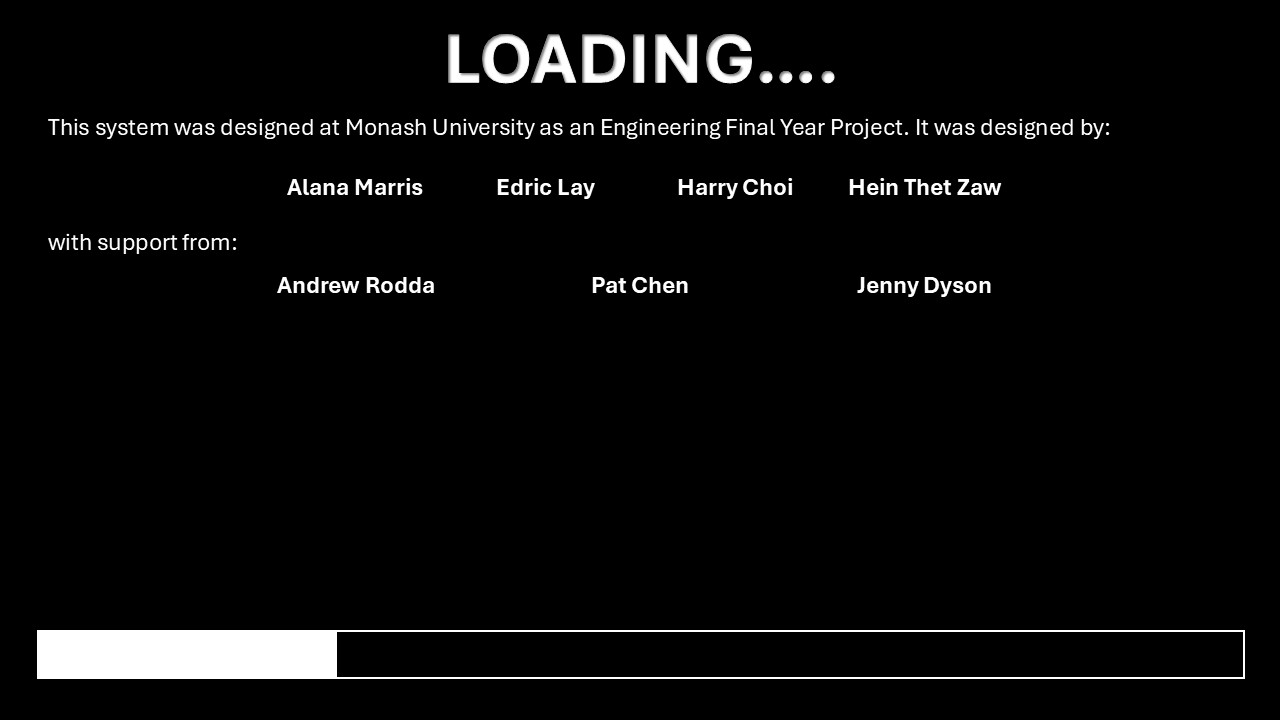
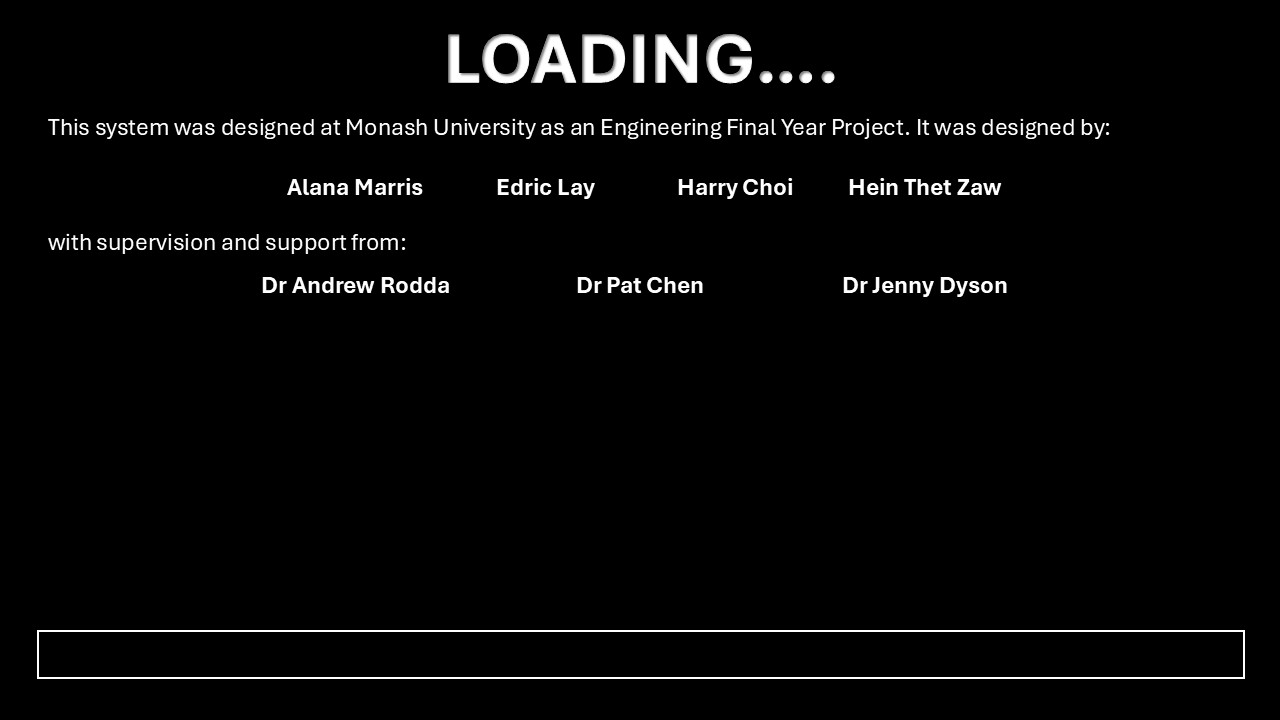
eh fixed some visuals

diff --git a/app/main.py b/app/main.py
@@ -61,15 +61,11 @@ class app(ctk.CTk):
             print("Camera brokey")
             self.destroy()
 
-        # Loading Screen 2
-        self.display = loadingFrame(self, loadingImageStr="loadingGraphics/2.JPG")
-        self.update()
-
         # Change camera properties to be as best as they can be for more accurate detection
         self.cameraProperties = camera.getCameraProperties(self.cap)
 
         # Loading Screen 2
-        self.display = loadingFrame(self, loadingImageStr="loadingGraphics/3.JPG")
+        self.display = loadingFrame(self, loadingImageStr="loadingGraphics/2.JPG")
         self.display.grid(row=0, column = 0, pady=10, padx=10, sticky = "nsew")
         self.update()
 
@@ -141,10 +137,10 @@ class menuFrame(ctk.CTkFrame):
 
         self.grid_columnconfigure(0, weight = 1)
         self.grid_rowconfigure(0, weight = 1)
-        self.grid_rowconfigure(1, weight = 0, uniform="cell") # Just do sanitization
-        self.grid_rowconfigure(2, weight = 0, uniform="cell") # Just do object identification/verification 
-        self.grid_rowconfigure(3, weight = 0, uniform="cell") # Do a full run
-        self.grid_rowconfigure(4, weight = 0, uniform="cell") # Close app
+        self.grid_rowconfigure(1, weight = 0, uniform="cell") # Single Channel Pipette
+        self.grid_rowconfigure(2, weight = 0, uniform="cell") # Pipette Aid
+        self.grid_rowconfigure(3, weight = 0, uniform="cell") # Close App
+        self.grid_rowconfigure(4, weight = 0, uniform="cell") # Calibrate
 
         
         self.titleLabel = ctk.CTkLabel(self, text = "Cell Culture Training", font = ("Segoe UI", 100, "bold"))
@@ -153,7 +149,7 @@ class menuFrame(ctk.CTkFrame):
         self.singleChannelPippetteButton = ctk.CTkButton(self, text = "Assess Single Channel Pippetting", command = master.displaySingleChannel)
         self.singleChannelPippetteButton.grid(row = 1, column = 0, pady=10, padx=10, sticky = "nsew")
 
-        self.pippetteAidButton = ctk.CTkButton(self, text = "Assess Pippetoir Skills", command = master.displayPipetteAid)
+        self.pippetteAidButton = ctk.CTkButton(self, text = "Assess Pipette Aid", command = master.displayPipetteAid)
         self.pippetteAidButton.grid(row = 2, column = 0, pady=10, padx=10, sticky = "nsew")
          
         self.escapeButton = ctk.CTkButton(self, text = "Exit", command = master.close, fg_color="red", hover_color="red")
@@ -205,7 +201,7 @@ class recordScreen(ctk.CTkFrame):
         #                     dark_image=Image.open("loadingGraphics/wait.jpg"),
         #                     size=(1280, 720))
         
-        self.titleLabel = ctk.CTkLabel(self, text = f"Recording", font = ("Segoe UI", 100, "bold"))
+        self.titleLabel = ctk.CTkLabel(self, text = f"Recording", font = ("Segoe UI", 80, "bold"))
         self.titleLabel.grid(row = 0, column = 0, pady=10, padx=10, sticky = "nsew")
 
         self.cameraFrame = tk.Canvas(self, width = self.master.cameraProperties[0], height = self.master.cameraProperties[1], highlightthickness=1)
@@ -297,6 +293,8 @@ class recordScreen(ctk.CTkFrame):
 
         print("Start recording sanisation")
         self.recordCamera = True
+        self.titleLabel.configure(text = "Recording Sanitation")
+        self.update()
 
         start = time.time()
 
@@ -337,6 +335,8 @@ class recordScreen(ctk.CTkFrame):
 
         print("Start recording collection")
         self.recordCamera = True
+        self.titleLabel.configure(text = "Recording Material Collection")
+        self.update()
         
         start = time.time()
 
@@ -376,6 +376,8 @@ class recordScreen(ctk.CTkFrame):
 
         print("Start recording tool usage")
         self.recordCamera = True
+        self.titleLabel.configure(text = "Recording Tool Usage")
+        self.update()
 
         start = time.time()
 
@@ -416,6 +418,8 @@ class recordScreen(ctk.CTkFrame):
 
         print("Start recording clean up")
         self.recordCamera = True
+        self.titleLabel.configure(text = "Recording space cleaning")
+        self.update()
 
         start = time.time()
 
@@ -454,6 +458,8 @@ class recordScreen(ctk.CTkFrame):
 
         print("Start recording sanisation")
         self.recordCamera = True
+        self.titleLabel.configure(text = "Recording Sanitation")
+        self.update()
 
         start = time.time()
 
@@ -519,7 +525,7 @@ class processVideoScreen(ctk.CTkFrame):
                             dark_image=Image.open("loadingGraphics/wait.jpg"),
                             size=(1280, 720))
         
-        self.titleLabel = ctk.CTkLabel(self, text = f"Reviewing", font = ("Segoe UI", 100, "bold"))
+        self.titleLabel = ctk.CTkLabel(self, text = f"Reviewing", font = ("Segoe UI", 80, "bold"))
         self.titleLabel.grid(row = 0, column = 0, columnspan = 2, pady=10, padx=10, sticky = "nsew")
 
         self.cameraFrame = tk.Canvas(self, width = self.master.cameraProperties[0]*2, height = self.master.cameraProperties[1], highlightthickness=1)
@@ -535,7 +541,7 @@ class processVideoScreen(ctk.CTkFrame):
         self.playButton.grid(row = 2, columnspan = 2, column = 0, pady=10, padx=10, sticky = "nsew")
        
         # Statistics frame
-        self.statistics = ctk.CTkFrame(self)
+        self.statistics = ctk.CTkFrame(self, fg_color=None, bg_color=None)
         self.statistics.grid(row = 1, column = 1, pady=10, padx=10, sticky = "nsew")
         self.statistics.pack_propagate(False)
         
